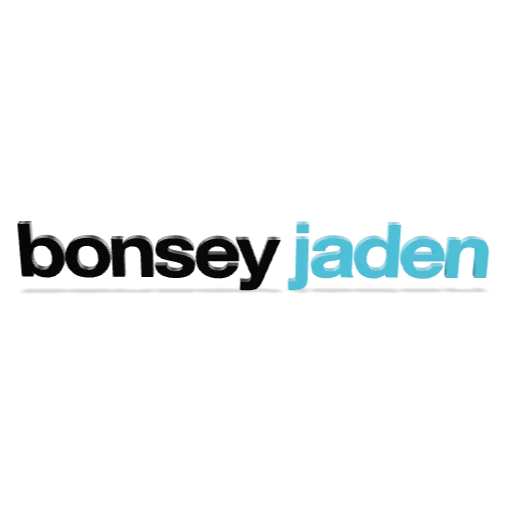
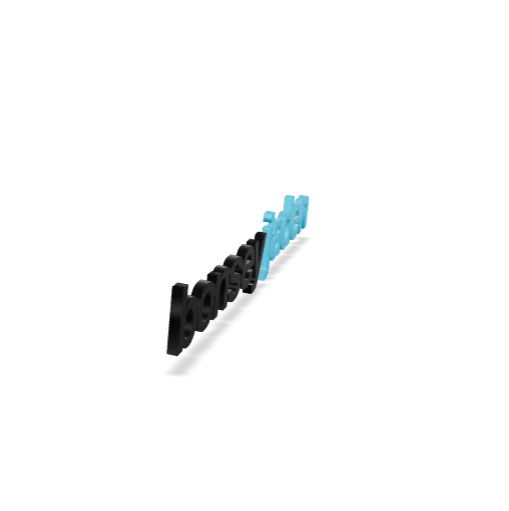
update

Changed region(s): [[0.0295, 0.3816, 0.9725, 0.7339]]

diff --git a/index.html b/index.html
@@ -1,9 +1,9 @@
 <!doctype html>
 <html lang="en">
   <head>
-    <title>Bonsey Jaden Logo</title>
+    <title>&lt;model-viewer&gt; template</title>
     <meta charset="utf-8">
-    <meta name="description" content="Bonsey Jaden Logo">
+    <meta name="description" content="&lt;model-viewer&gt; template">
     <meta name="viewport" content="width=device-width, initial-scale=1">
     <link type="text/css" href="./styles.css" rel="stylesheet"/>
     <!-- OPTIONAL: The :focus-visible polyfill removes the focus ring for some input types -->
@@ -11,7 +11,7 @@
   </head>
   <body>
     <!-- <model-viewer> HTML element -->
-    <model-viewer src="bj_logo_4.glb" ar ar-modes="scene-viewer webxr quick-look" camera-controls poster="poster.webp" shadow-intensity="1" shadow-softness="0.13">
+    <model-viewer src="bj_logo_4.glb" ar ar-modes="scene-viewer webxr quick-look" camera-controls poster="poster.webp" shadow-intensity="1" shadow-softness="0.13" auto-rotate>
       <div class="progress-bar hide" slot="progress-bar">
           <div class="update-bar"></div>
       </div>
